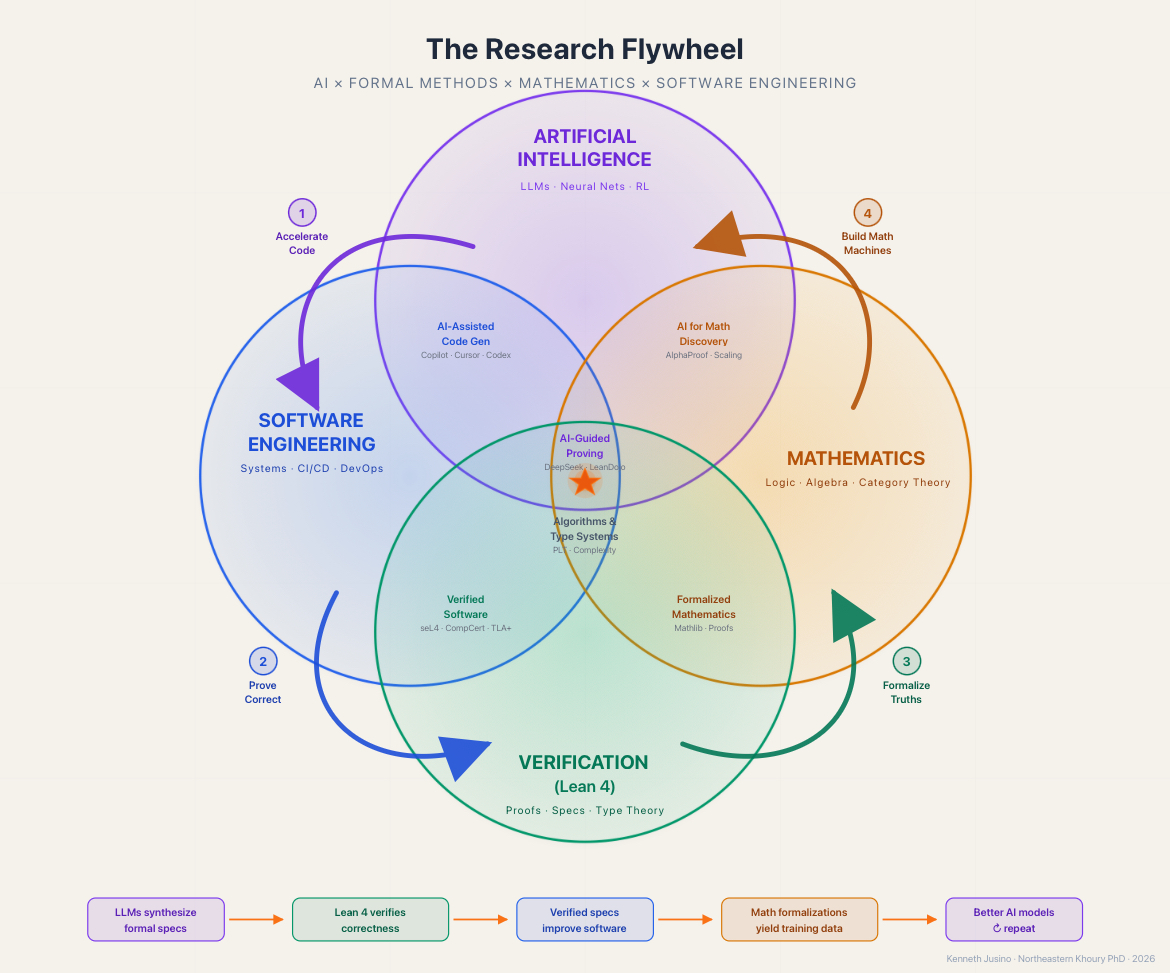
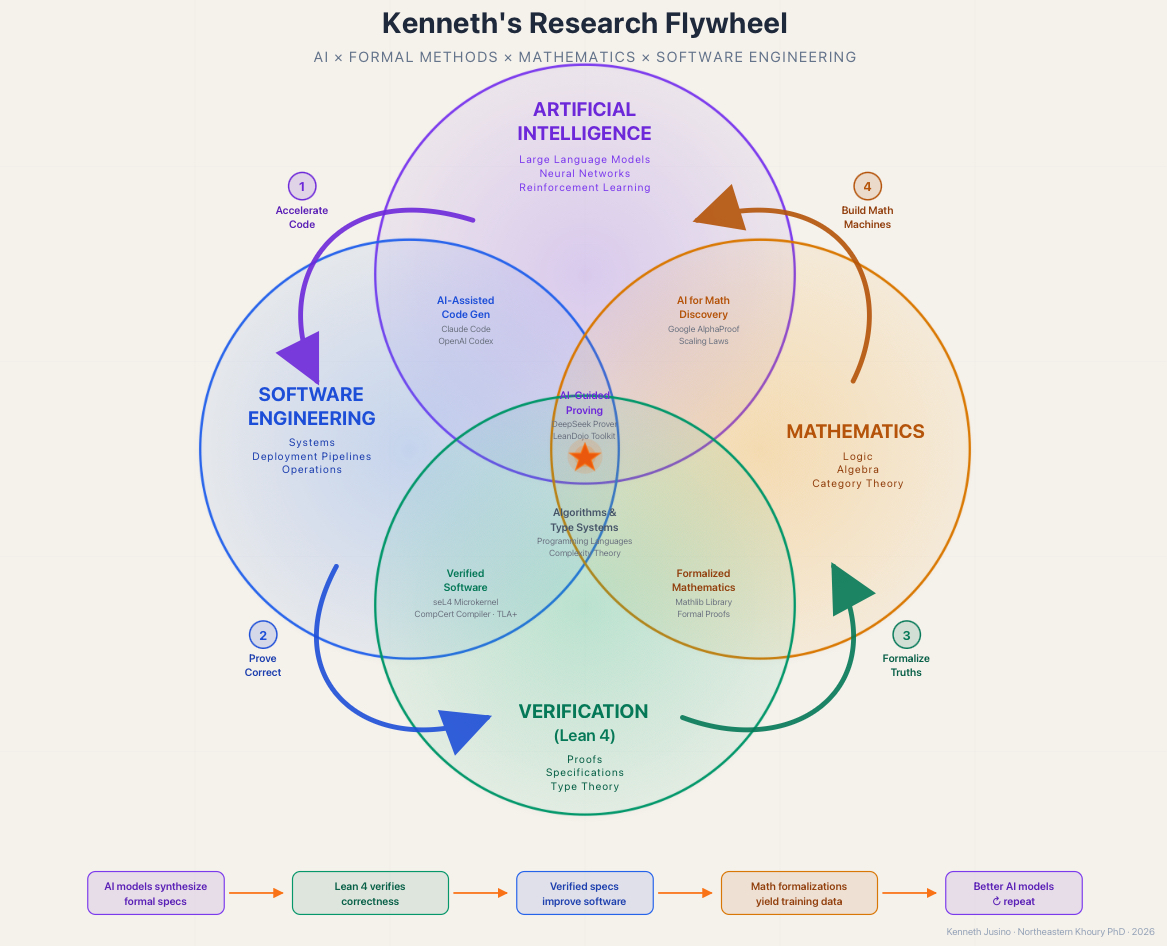
Merge pull request #30 from kjusino/claude/blogger-og-image-preview-1xufzq

Pull request: Add OG image previews and expand acronyms in Lean article
## Summary

- **OG image meta tags**: When articles are shared on social media or messaging apps, the hero image, title, and description now appear as a rich link preview. A build-time script extracts article metadata and copies hero images to `build/og/` with stable URLs. The Express server injects `og:` and `twitter:` meta tags into the HTML before serving, since social crawlers don't execute JavaScript.
- **Updated Lean hero image**: Replaced the research flywheel diagram with the latest version.
- **Acronym expansion in Lean article**: Expanded NSF, FDA, FMI, SDLC, CS, AI, LLM, and ARG on first use (full name with acronym in parentheses), then used the short form throughout.

## How it works

1. `scripts/generate-og-data.ts` runs after `react-scripts build`, parses article files for metadata (title, abstract, hero image), copies hero images to `build/og/`, and writes `build/og-manifest.json`.
2. `server/og.ts` loads the manifest on startup and returns a function that injects `<meta>` tags before `</head>` for each request.
3. `server/index.ts` uses the injector in the catch-all route, serving per-article OG tags to crawlers while keeping the SPA behavior intact for browsers.

## Test plan

- [ ] Run `npm run build` — verify `build/og-manifest.json` has 8 entries and `build/og/` contains all hero images
- [ ] Start the server (`npx tsx server/index.ts`) and `curl` an article route — verify `og:title`, `og:image`, `twitter:card` tags appear in the HTML
[…]

diff --git a/src/articles/LeanInToGradSchool.tsx b/src/articles/LeanInToGradSchool.tsx
@@ -54,12 +54,12 @@ const LeanInToGradSchool: ArticleProps = {
             full-time employment.
         </p>,
         <p>
-            I will begin a Computer Science PhD program this fall at{' '}
+            I will begin a Computer Science (CS) PhD program this fall at{' '}
             <a href="https://www.khoury.northeastern.edu/" target="_blank">
                 Northeastern University's Khoury College for Computer Science
             </a>{' '}
             as part of the Formal Methods Group. My research is supported by the
-            NSF's CSGrad4US Fellowship.
+            National Science Foundation (NSF) CSGrad4US Fellowship.
         </p>,
         <p>
             I want to work at the frontier of four distinct but overlapping
@@ -97,14 +97,15 @@ const LeanInToGradSchool: ArticleProps = {
             partial differential equations and calculating Fourier transforms by
             pen and paper: <em>very</em>. I always thought about how to find edge
             cases and 99th-percentile scenarios, and I took this testing mindset
-            with me when I joined Foundation Medicine's Quality Engineering group
-            as a Software Engineer.
+            with me when I joined the Quality Engineering group at Foundation
+            Medicine (FMI) as a Software Engineer.
         </p>,
         <p>
-            FMI sells FDA-regulated Software as Medical Device products and must
-            adhere to all regulatory standards when releasing new software to
-            patients. Every team deploying to our globally-distributed production
-            environments had to follow a strict SDLC process to prove to
+            FMI sells Software as Medical Device products regulated by the Food
+            and Drug Administration (FDA), and must adhere to all regulatory
+            standards when releasing new software to patients. Every team deploying to our globally-distributed production
+            environments had to follow a strict Software Development Life Cycle
+            (SDLC) process to prove to
             auditors that we adhered to all standards during development.
         </p>,
         <p>
@@ -190,15 +191,17 @@ const LeanInToGradSchool: ArticleProps = {
             software systems for the betterment of humanity.
         </p>,
         <p>
-            And this guarantee has never been more urgent, because of AI.
+            And this guarantee has never been more urgent, because of
+            Artificial Intelligence (AI).
         </p>,
         <hr />,
         <h2>When? Right Now.</h2>,
         <p>
             In January 2026, tools like Anthropic's Claude Code and OpenAI's
             Codex changed software engineering forever, right in front of our
-            eyes. These were not the autocomplete LLMs that engineers rightly
-            ignored between 2022 and 2025. The early LLMs hallucinated broken
+            eyes. These were not the autocomplete Large Language Models (LLMs)
+            that engineers rightly ignored between 2022 and 2025. The early LLMs
+            hallucinated broken
             code constantly. But the 2026 generation completely convinced me of
             two things:
         </p>,
@@ -338,7 +341,7 @@ const LeanInToGradSchool: ArticleProps = {
                 href="https://www.amazon.science/research-areas/automated-reasoning"
                 target="_blank"
             >
-                AWS ARG
+                AWS Automated Reasoning Group (ARG)
             </a>
             ,{' '}
             <a href="https://harmonic.fun/" target="_blank">